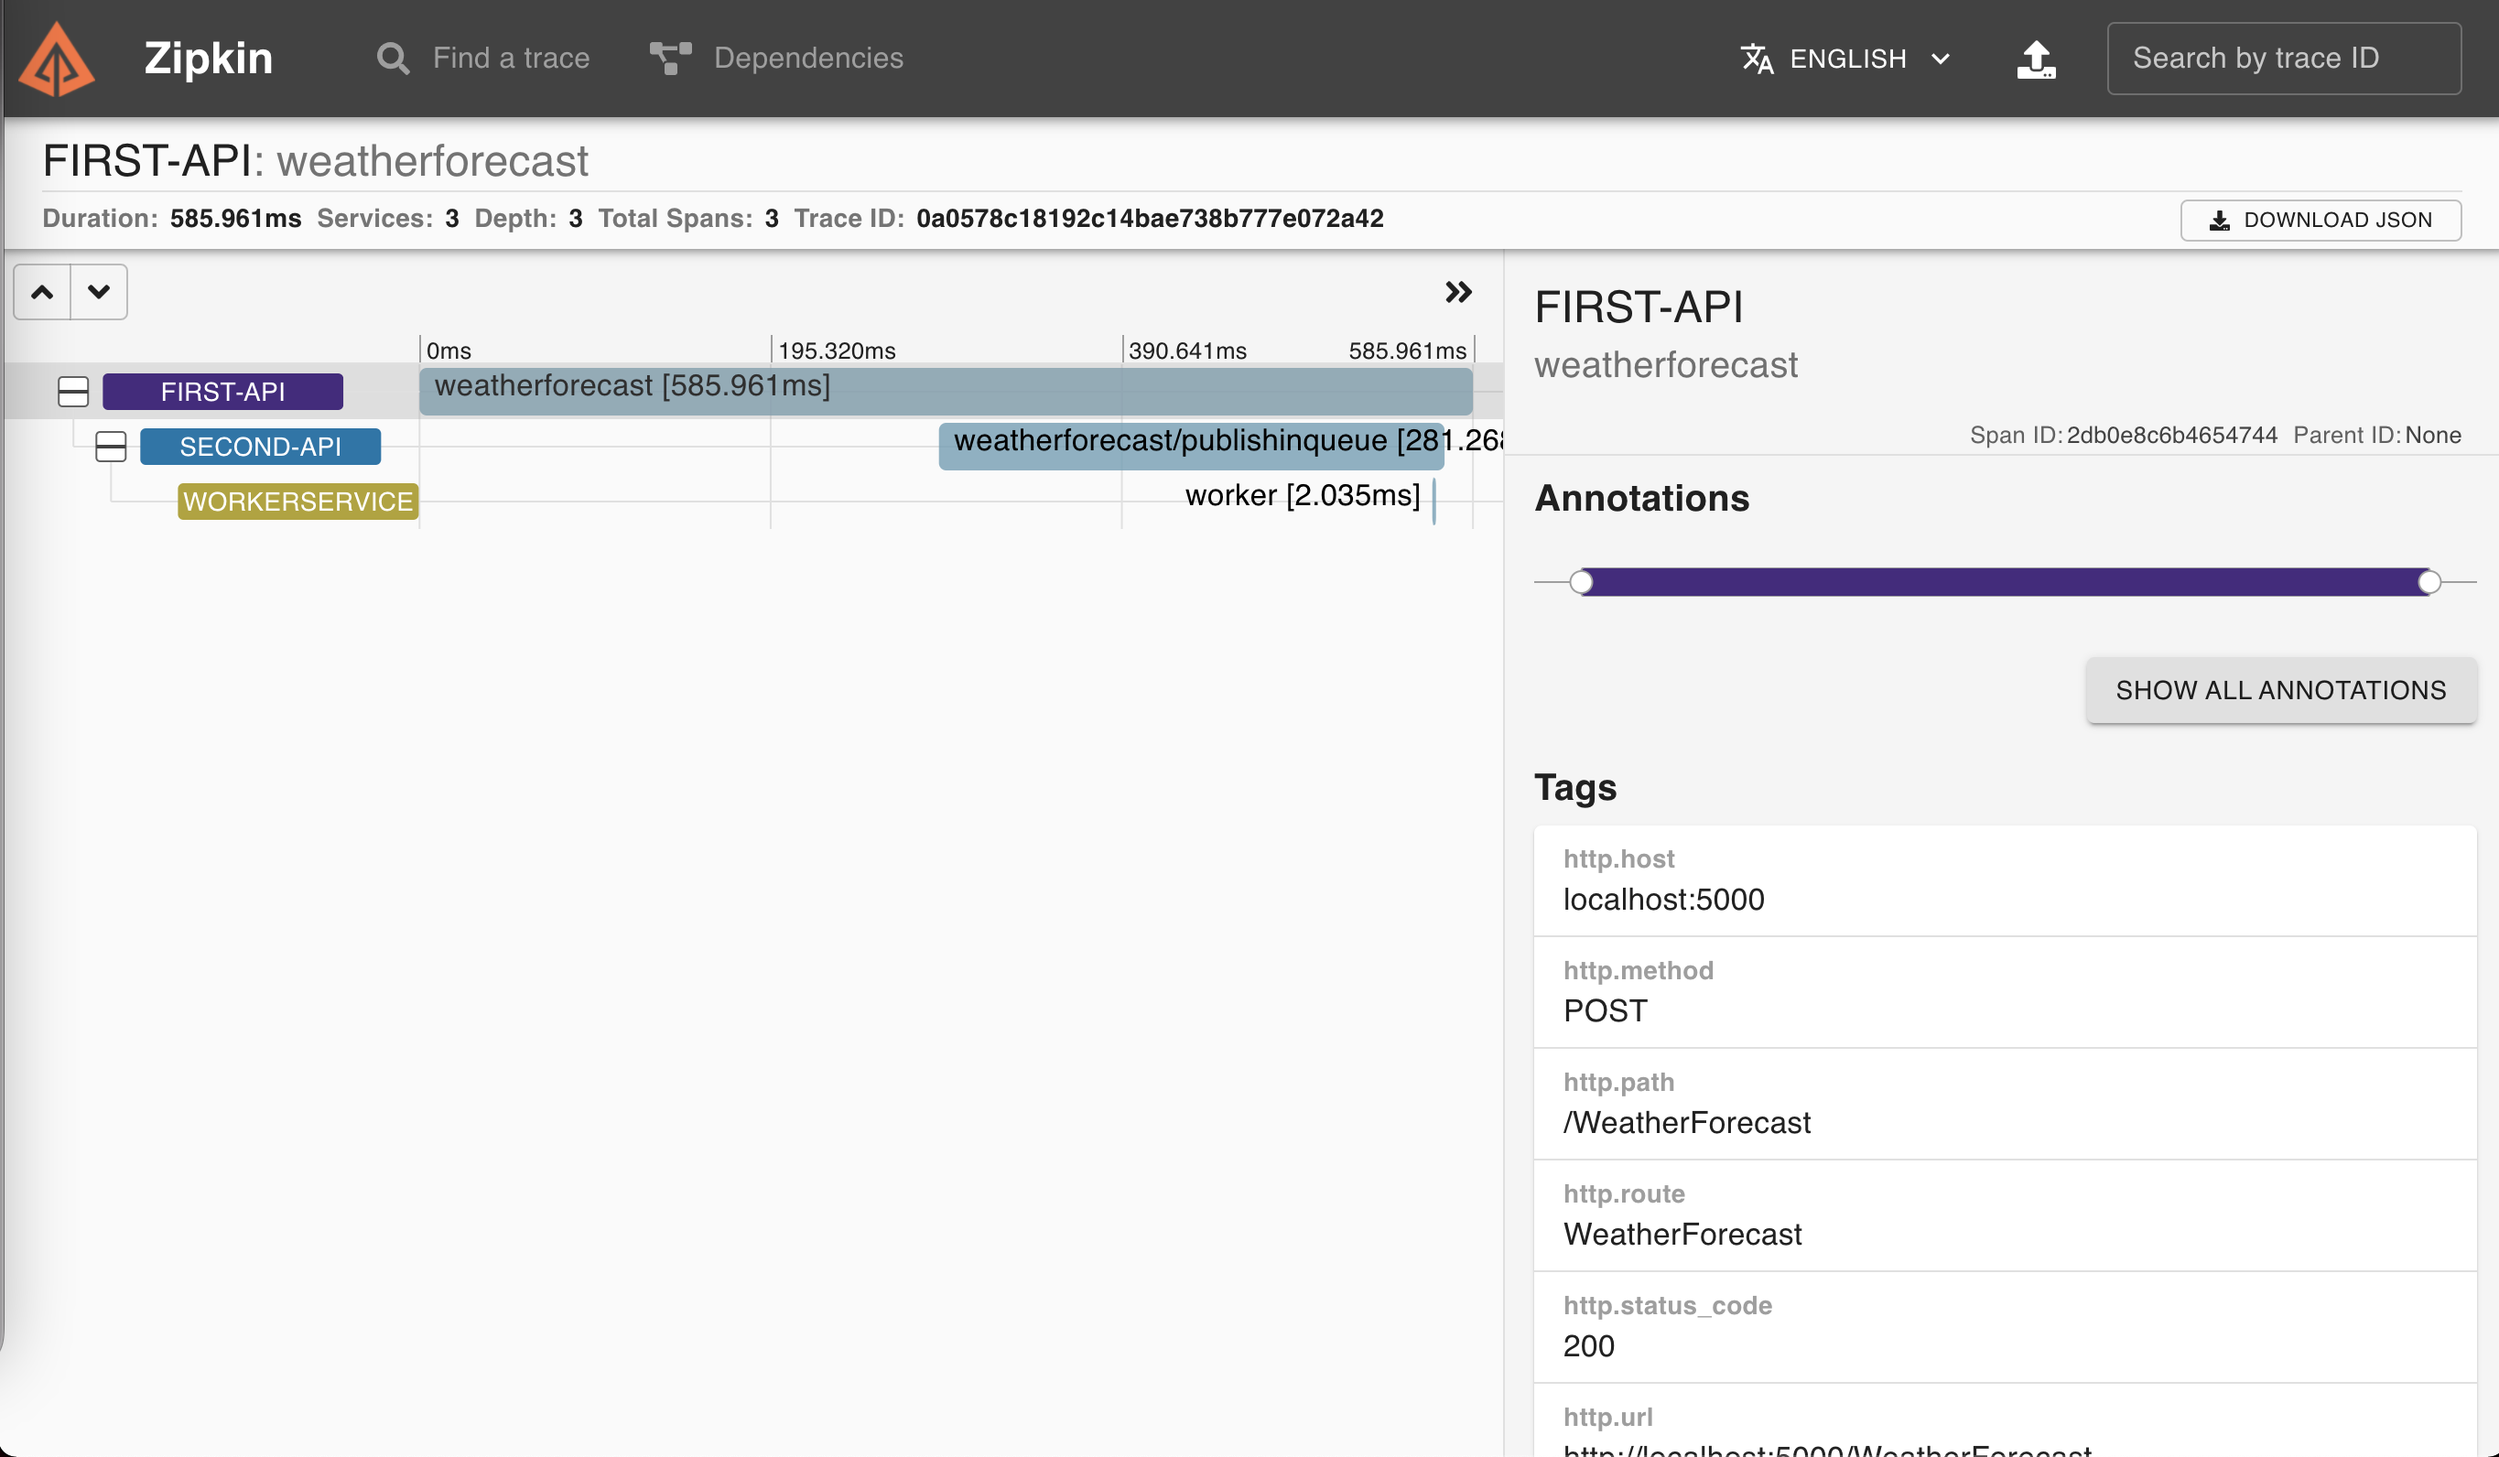
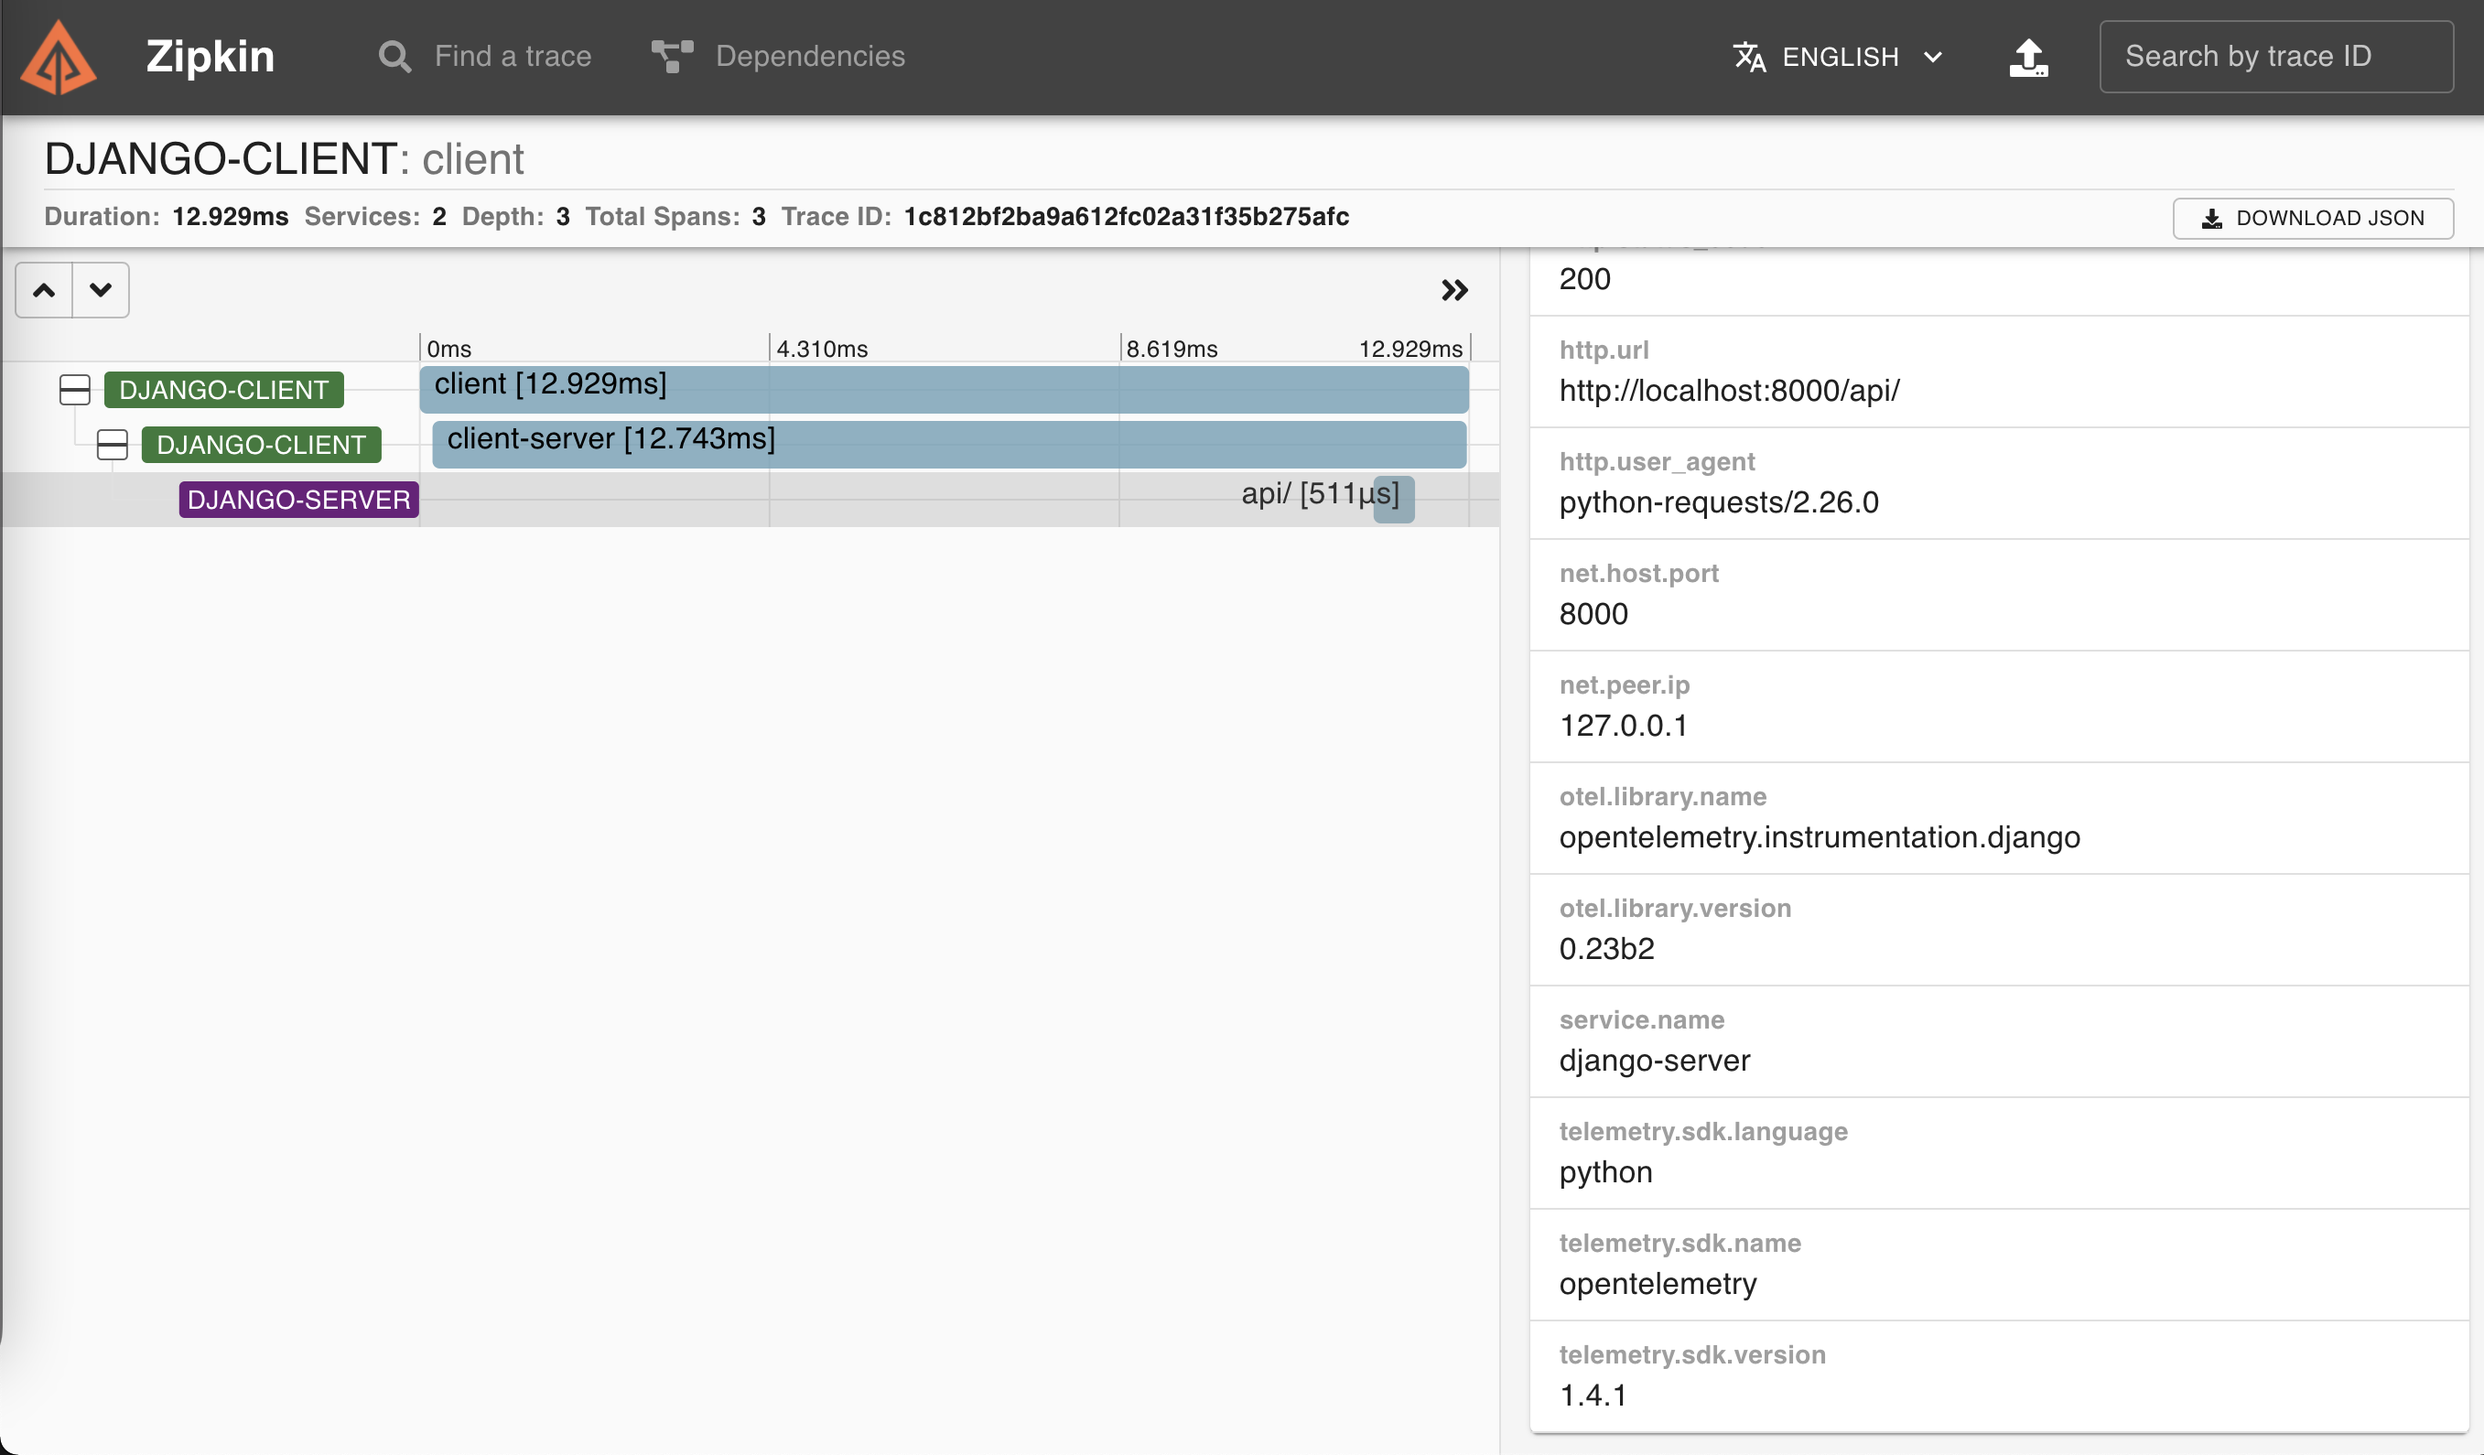
docs: `readme` update

diff --git a/README.md b/README.md
@@ -1,69 +1,66 @@
 # Django Trace Context
 
-`work in progress`
+Simple client and django server to show how OpenTelemetry and trace context work.
 
-## Application architecture
+## Prerequisites
 
-The purpose is to propagate a message with `traceparent` id throw two api's and one worker using [W3C trace context](https://www.w3.org/TR/trace-context) standard. The `first-api` calls the `second-api` by a http call, on the other hand, the `second-api` has an asynchronous communication with the `worker` by a message broker (I chose [rabbitmq](https://www.rabbitmq.com/) for that). Furthermore, I chose [zipkin](https://zipkin.io/) as default APM tool, being responsible for get the application traces and build the distributed tracing diagram.
+- Python 3.9
 
-![Distributed Trace](doc/w3c-trace-context.png)
+- Pipenv
 
-The first and second APIs have the [same code base](./src/OpenTelemetryApi), but they're deployed in different containers.
+- Docker
 
 ## Running the project
 
-Inside [otel_django_app](./otel_django_app) type the following command:
+To install dependencies, run:
 
 ```bash
-python3 manage.py runserver
+pipenv install
 ```
 
-to run jaeger, type the following command:
+First, active this project's virtualenv:
 
 ```bash
-docker run -d --name jaeger \
-  -e COLLECTOR_ZIPKIN_HOST_PORT=:9411 \
-  -p 5775:5775/udp \
-  -p 6831:6831/udp \
-  -p 6832:6832/udp \
-  -p 5778:5778 \
-  -p 16686:16686 \
-  -p 14268:14268 \
-  -p 14250:14250 \
-  -p 9411:9411 \
-  jaegertracing/all-in-one:1.24
+pipenv shell
 ```
 
-to open jaeger dashboard, type the following command:
+Inside [otel_django_app](./otel_django_app) type the following command to run the `server`:
 
 ```bash
-http://localhost:16686
+python3 manage.py runserver --noreload
 ```
 
-Inside [src folder](./src), type the command below to up all containers (`first-api`, `second-api`, `worker`, `rabbit` and `zipkin`):
+Open another terminal tab and activate the project's virtualenv again:
 
 ```bash
-  docker-compose up
+pipenv shell
 ```
 
-wait for all containers get on and then send a request to the `first-api`:
+Inside [otel_django_app](./otel_django_app) type the following command to run the `client`:
 
 ```bash
-curl --request POST \
-  --url http://localhost:5000/WeatherForecast \
-  --header 'Content-Type: application/json' \
-  --header 'accept: */*' \
-  --data '{
-	"temperatureC": 10,
-	"summary": "Trace Test"
-}'
+python3 client.py
 ```
 
-the message that you sent above will travel throughout the flow (`first-api` > `second-api` >  `rabbit` > `worker`) along with the propagation fields (`traceparent` and `tracestate`). To see the generated distributed tracing diagram, access `zipkin` in your browser:
+to run zipkin, type the following command:
 
 ```bash
-  http://localhost:9411/
+docker run -p 9411:9411 openzipkin/zipkin
 ```
+
+to open zipkin dashboard, type the following command:
+
+```bash
+http://localhost:9411
+```
+
+the `api` run on port 8000:
+
+```bash
+http://127.0.0.1:8000/api/
+```
+
+
 
 at home page, let the search field empty and type `RUN QUERY` to load all traces. Finally, click in your trace, then you'll see a diagram like this:
 
